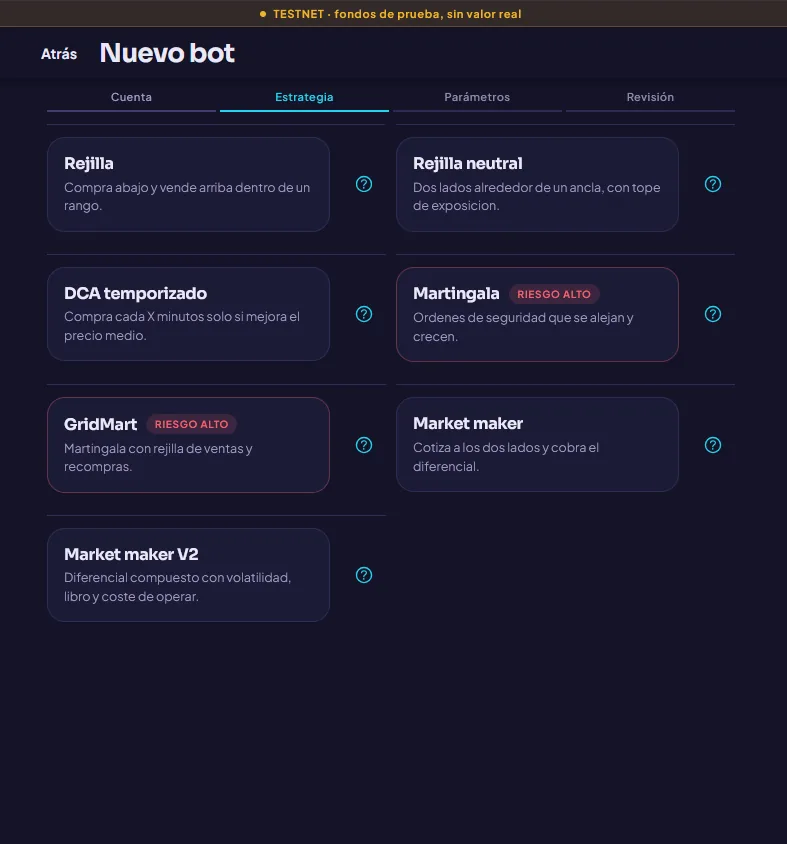
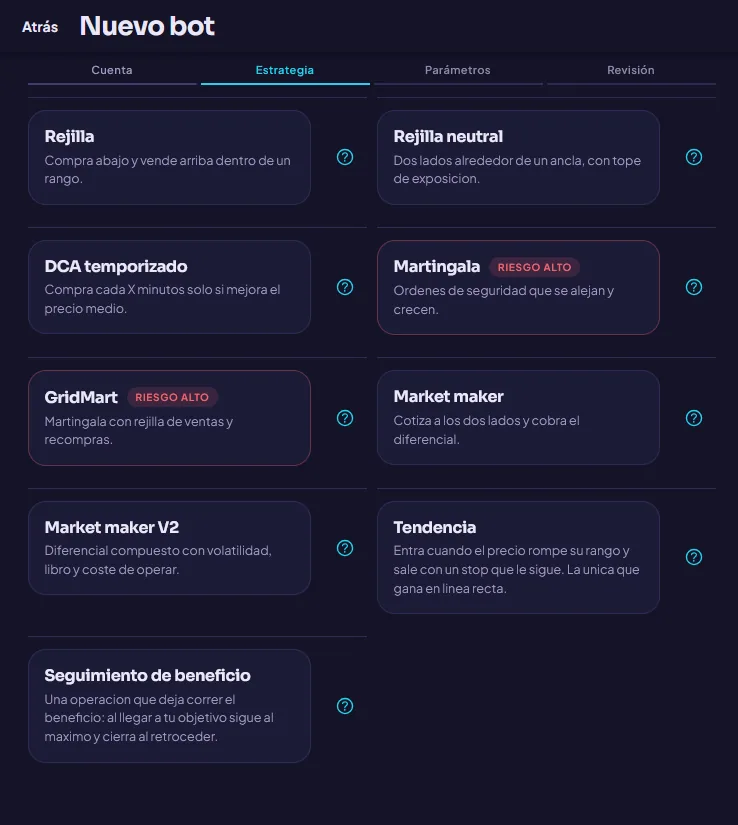
fix: update strategy selection assistant image description for clarity

diff --git a/README.md b/README.md
@@ -36,7 +36,7 @@ pantalla escrita dos veces.
 Y el asistente de creación, que empieza por lo que más pesa: qué estrategia, y
 con cuánto riesgo.
 
-![Asistente de nuevo bot, paso de estrategia: las estrategias en tarjetas, con Martingala y GridMart marcadas como riesgo alto](docs/img/selector-estrategias.webp)
+![Asistente de nuevo bot, paso de estrategia: las nueve estrategias en tarjetas, cada una con su ayuda, y Martingala y GridMart marcadas como riesgo alto](docs/img/selector-estrategias.webp)
 
 El riesgo va declarado en la tarjeta, antes de elegir —Martingala y GridMart
 llevan su aviso desde el primer paso—. Y el formulario de cada estrategia lo
